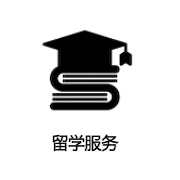
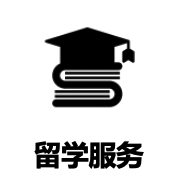
fixed demo img

Changed region(s): [[0.2222, 0.1389, 0.75, 0.6389], [0.1944, 0.75, 0.8056, 0.9444]]

diff --git a/index.html b/index.html
@@ -96,18 +96,18 @@
 	</div>
 </div> <!-- /slideshow -->
 
-<div id="dwrap">
+<div id="cwrap">
     <div class="container">
-        <div class="row centered">
+        <div class="centered">
 		  <h3>了解光合作用</h3>
           <div class="hline"></div>
 		  <br>
-		  <div class="text">
-		    <a href="https://lighteffect-edu.com/pages/Meet/Meet_about.html" target="_blank"><img class="demo_img" src="/assets/img/demo/demo_index01.png" class="img-responsive"></a>
-		    <a href="https://lighteffect-edu.com/pages/Meet/Meet_scenario.html" target="_blank"><img class="demo_img" src="/assets/img/demo/demo_index02.png" class="img-responsive"></a>
-		    <a href="https://lighteffect-edu.com/pages/Lecture/Lecture_service.html" target="_blank"><img class="demo_img" src="/assets/img/demo/demo_index03.png" class="img-responsive"></a>
-		    <a href="https://lighteffect-edu.com/pages/contact.html" target="_blank"><img class="demo_img" src="/assets/img/demo/demo_index04.png" class="img-responsive"></a>
-        <a href="https://space.bilibili.com/1261312749/video" target="_blank"><img class="demo_img" src="/assets/img/demo/demo_index05.png" class="img-responsive"></a>
+		  <div class="">
+		    <a href="https://lighteffect-edu.com/pages/Meet/Meet_about.html" ><img  class="demo_img" src="/assets/img/demo/demo_index01.png" class="img-responsive"></a>
+		    <a href="https://lighteffect-edu.com/pages/Meet/Meet_scenario.html" ><img  class="demo_img" src="/assets/img/demo/demo_index02.png" class="img-responsive"></a>
+		    <a href="https://lighteffect-edu.com/pages/Lecture/Lecture_service.html" ><img  class="demo_img" src="/assets/img/demo/demo_index03.png" class="img-responsive"></a>
+		    <a href="https://lighteffect-edu.com/pages/contact.html" ><img  class="demo_img" src="/assets/img/demo/demo_index04.png" class="img-responsive"></a>
+			<a href="https://space.bilibili.com/1261312749/video" ><img class="demo_img" src="/assets/img/demo/demo_index05.png" class="img-responsive"></a>
 		  </div>
 		  <div style="clear:both"></div><br>
 		  <span class="dmbutton"><a href="/pages/demo.html" | prepend: site.baseurl ">更多</a></span>

diff --git a/assets/css/style.css b/assets/css/style.css
@@ -775,7 +775,9 @@ div.desc {
 	margin:10px;
 }
 .demo_img{
-	float:left;
+	display: inline-block;
+	 width: 18%;
+	 height: 18%;
 	border: 0.5px solid #f7f7f7;
 }
 
